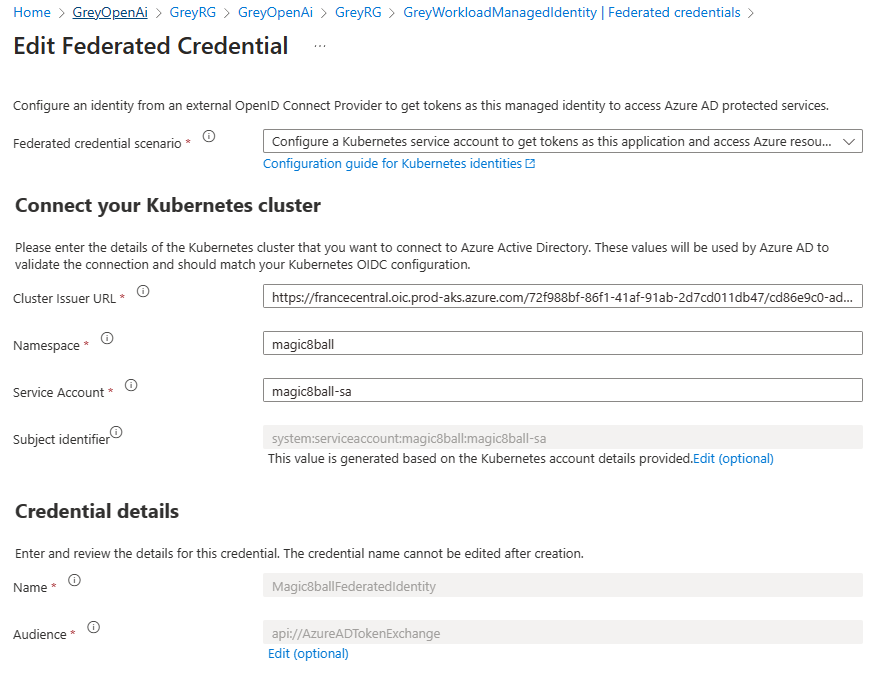
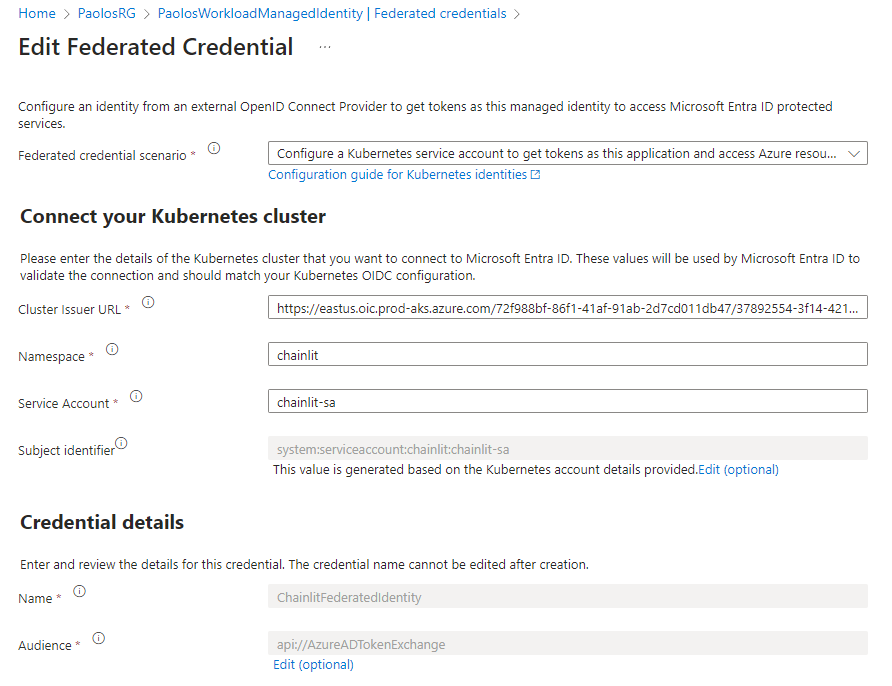
Fixed readme

diff --git a/README.md b/README.md
@@ -736,7 +736,7 @@ Open the Azure Portal, and navigate to the resource group. Open the Azure Open A
 
 ![OpenAI Key and Endpoint](/images/openai.png)
 
-Open to the `<Prefix>WorkloadManagedIdentity` managed identity, navigate to the `Federated credentials`, and verify that the federated identity credentials for the `magic8ball-sa` service account were created correctly, as shown in the following picture.
+Open to the `<Prefix>WorkloadManagedIdentity` managed identity, navigate to the `Federated credentials`, and verify that the federated identity credentials for the `chainlit-sa` service account were created correctly, as shown in the following picture.
 
 ![Federated Identity Credentials](/images/federatedidentitycredentials.png)
 
